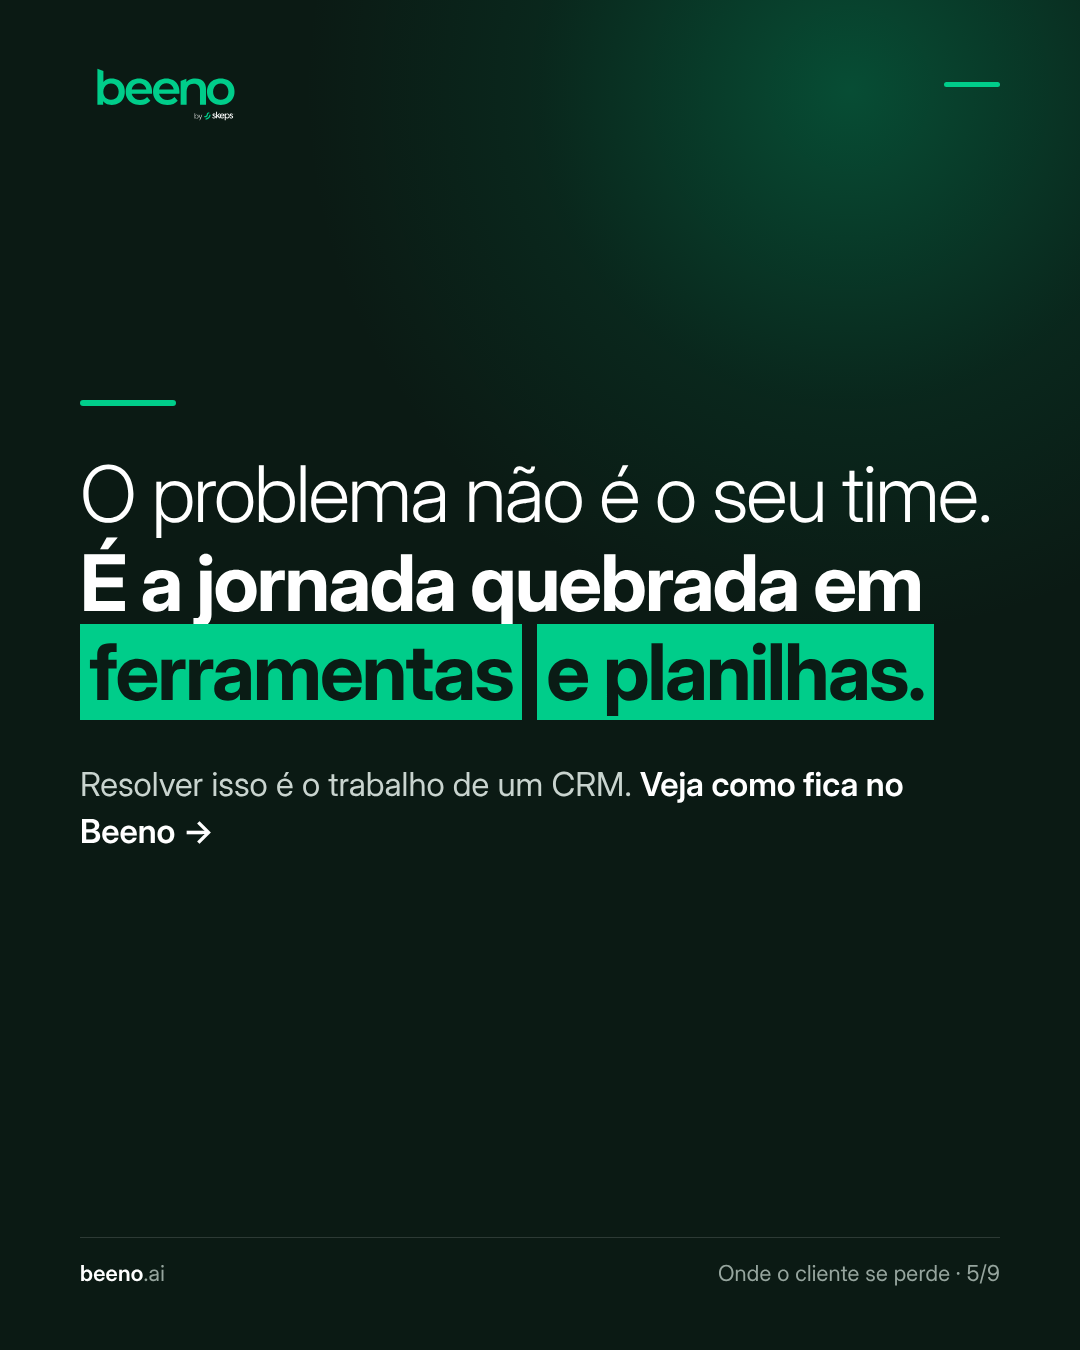
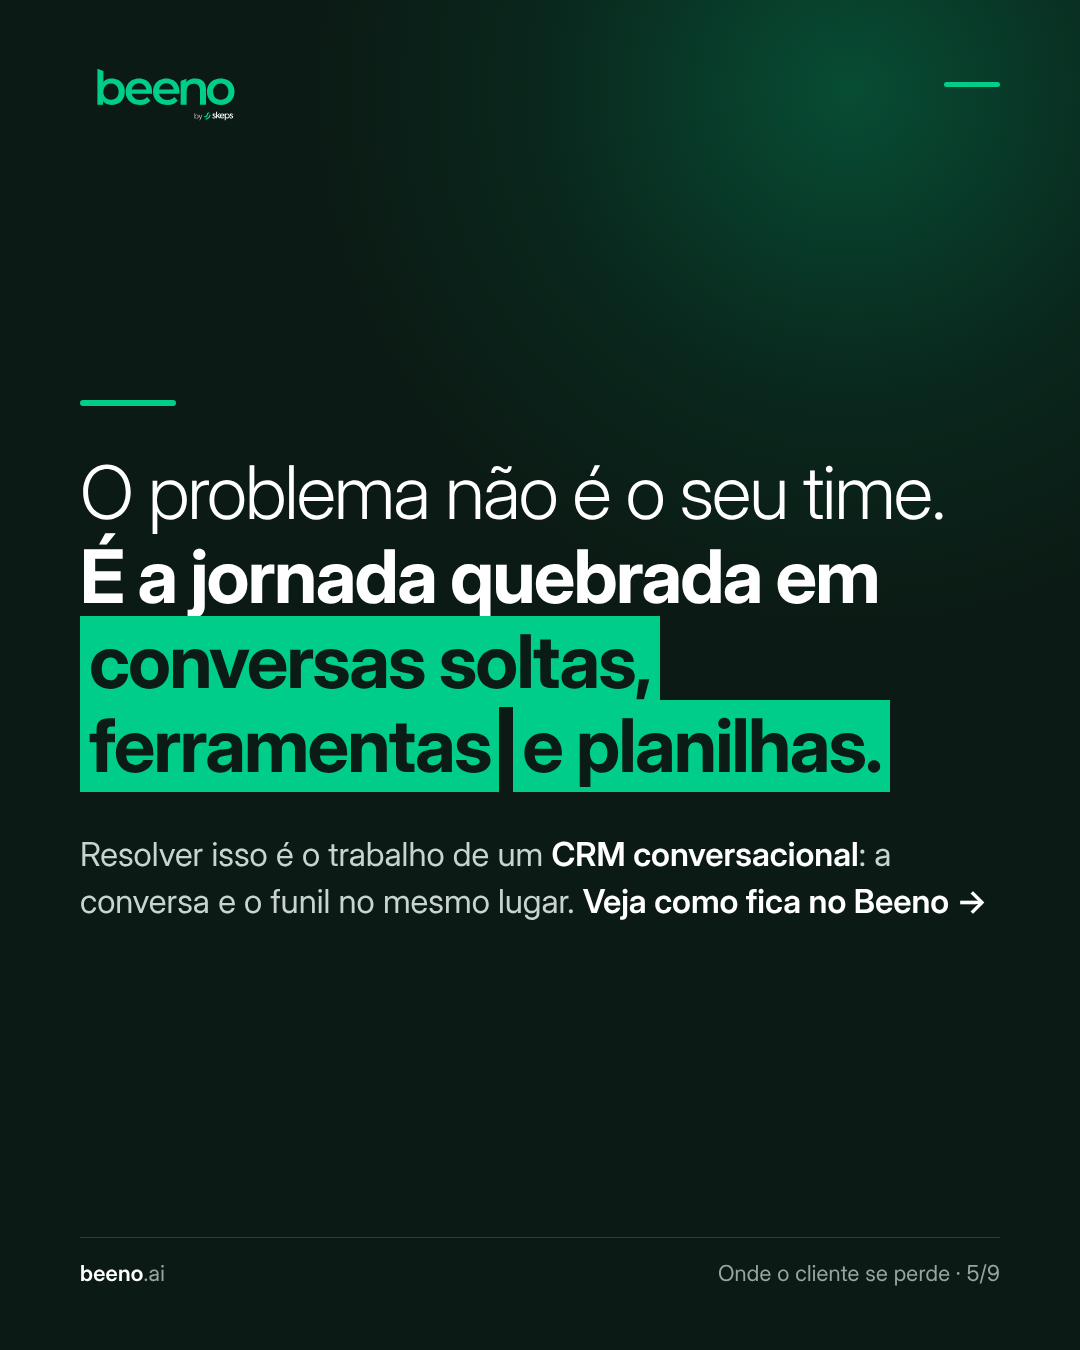
Carrossel 03: WhatsApp na problemática e posicionamento de CRM conversacional
Claude-Session: https://claude.ai/code/session_01D7x6hCGJtiUZoBstvS1oRR

Changed region(s): [[0.0611, 0.3422, 0.9167, 0.6844]]

diff --git a/posts/carrossel-03-jornada/carrossel.html b/posts/carrossel-03-jornada/carrossel.html
@@ -184,6 +184,7 @@ body { background: #222; font-family: "ID", sans-serif; color: #fff; -webkit-fon
   <symbol id="i-alert" viewBox="0 0 24 24"><g fill="none" stroke="currentColor" stroke-width="2.2" stroke-linecap="round" stroke-linejoin="round"><path d="M10.3 3.9 1.8 18a2 2 0 0 0 1.7 3h17a2 2 0 0 0 1.7-3L13.7 3.9a2 2 0 0 0-3.4 0z"/><path d="M12 9v4M12 17h.01"/></g></symbol>
   <symbol id="i-q" viewBox="0 0 24 24"><g fill="none" stroke="currentColor" stroke-width="2.2" stroke-linecap="round"><circle cx="12" cy="12" r="9"/><path d="M9.5 9.5a2.5 2.5 0 1 1 3.5 2.3c-.6.3-1 .9-1 1.5V14M12 17h.01"/></g></symbol>
   <symbol id="i-sheet" viewBox="0 0 24 24"><g fill="none" stroke="currentColor" stroke-width="2"><rect x="3" y="3" width="18" height="18" rx="2"/><path d="M3 9h18M3 15h18M9 3v18"/></g></symbol>
+  <symbol id="i-chat" viewBox="0 0 24 24"><path fill="none" stroke="currentColor" stroke-width="2" stroke-linejoin="round" d="M20 11.5a8 8 0 0 1-11.8 7L4 20l1.4-4A8 8 0 1 1 20 11.5z"/></symbol>
   <symbol id="i-chart" viewBox="0 0 24 24"><g fill="none" stroke="currentColor" stroke-width="2" stroke-linecap="round"><path d="M4 20V10M10 20V4M16 20v-7M22 20H2"/></g></symbol>
 </defs></svg>
 
@@ -202,6 +203,8 @@ body { background: #222; font-family: "ID", sans-serif; color: #fff; -webkit-fon
 .cold .row .sp { flex: 1; }
 .cold .muted { color: #8FA39A; font-size: 20px; }
 .redchip { font-size: 18px; font-weight: 600; padding: 6px 14px; border-radius: 999px; background: rgba(255,101,104,.15); color: #FF8A8C; white-space: nowrap; }
+.wachip { font-size: 18px; font-weight: 600; padding: 6px 14px; border-radius: 999px; background: rgba(37,211,102,.14); color: #6EE7A0; white-space: nowrap; }
+.msg { font-style: italic; color: #C9D4CF; }
 .greychip { font-size: 18px; font-weight: 600; padding: 6px 14px; border-radius: 999px; background: rgba(255,255,255,.08); color: #B8C4BF; white-space: nowrap; }
 /* janela no visual real do Beeno */
 .bw { position: absolute; background: #FAFAFA; border-radius: 22px; overflow: hidden; color: #1F2430; font-family: "ID";
@@ -251,12 +254,12 @@ body { background: #222; font-family: "ID", sans-serif; color: #fff; -webkit-fon
   <div style="left:80px; top:180px; width:920px;">
     <div class="tagp r" style="margin-bottom:26px"><span class="num">1</span>Ponto de quebra</div>
     <div class="h2">O lead chega.<br><span class="r">E fica sem dono.</span></div>
-    <p class="pb" style="margin-top:26px">Cai no e-mail do marketing, vira linha de planilha, espera alguém repassar. <b>Cada hora parado é interesse esfriando.</b></p>
+    <p class="pb" style="margin-top:26px">Chega pelo WhatsApp, pelo site, pelo e-mail. Vira mensagem não lida ou linha de planilha, esperando alguém repassar. <b>Cada hora parado é interesse esfriando.</b></p>
   </div>
   <div class="cold" style="left:80px; top:640px; width:920px;">
-    <div class="row"><svg class="ico" color="#8FA39A"><use href="#i-sheet"/></svg><span>leads_novembro_v3.xlsx</span><span class="sp"></span><span class="muted">editado por 4 pessoas</span></div>
-    <div class="row"><span>Grupo Atlas · Mariana Costa</span><span class="sp"></span><span class="redchip">sem responsável · há 5h</span></div>
-    <div class="row"><span>Nobre Logística · Rafael Lima</span><span class="sp"></span><span class="redchip">sem responsável · há 1 dia</span></div>
+    <div class="row"><svg class="ico" color="#6EE7A0"><use href="#i-chat"/></svg><span>WhatsApp do comercial</span><span class="sp"></span><span class="muted">14 conversas não lidas</span></div>
+    <div class="row"><span>Mariana Costa: <span class="msg">“Oi! Queria entender os planos”</span></span><span class="sp"></span><span class="redchip">sem resposta · há 5h</span></div>
+    <div class="row"><svg class="ico" color="#8FA39A"><use href="#i-sheet"/></svg><span>leads_site_novembro.xlsx</span><span class="sp"></span><span class="redchip">23 sem responsável</span></div>
     <div class="row"><span>Vértice Saúde · Ana Prado</span><span class="sp"></span><span class="greychip">“quem pega esse?”</span></div>
   </div>
   <div class="foot"><span><b>beeno</b>.ai</span><span>Onde o cliente se perde · 2/9</span></div>
@@ -269,13 +272,13 @@ body { background: #222; font-family: "ID", sans-serif; color: #fff; -webkit-fon
   <div style="left:80px; top:180px; width:920px;">
     <div class="tagp r" style="margin-bottom:26px"><span class="num">2</span>Ponto de quebra</div>
     <div class="h2">O vendedor liga<br><span class="r">sem contexto.</span></div>
-    <p class="pb" style="margin-top:26px">Não sabe qual página o lead viu, que e-mail abriu, o que já falou com o marketing. <b>Começa do zero, e o cliente percebe.</b></p>
+    <p class="pb" style="margin-top:26px">Não sabe o que o cliente já conversou no WhatsApp, qual página viu, que e-mail abriu. <b>Pergunta tudo de novo, e o cliente percebe.</b></p>
   </div>
   <div class="cold" style="left:80px; top:640px; width:920px;">
     <div class="row"><span style="font-weight:600">Mariana Costa · Grupo Atlas</span><span class="sp"></span><span class="greychip">ficha no CRM</span></div>
-    <div class="row"><svg class="ico" color="#FF8A8C"><use href="#i-q"/></svg><span>Página que visitou</span><span class="sp"></span><span class="muted">está na ferramenta de LP</span></div>
-    <div class="row"><svg class="ico" color="#FF8A8C"><use href="#i-q"/></svg><span>E-mails que abriu</span><span class="sp"></span><span class="muted">está no e-mail marketing</span></div>
-    <div class="row"><svg class="ico" color="#FF8A8C"><use href="#i-q"/></svg><span>Última conversa</span><span class="sp"></span><span class="muted">está no celular de alguém</span></div>
+    <div class="row"><svg class="ico" color="#FF8A8C"><use href="#i-q"/></svg><span>Conversas no WhatsApp</span><span class="sp"></span><span class="muted">no celular de outro vendedor</span></div>
+    <div class="row"><svg class="ico" color="#FF8A8C"><use href="#i-q"/></svg><span>Página que visitou</span><span class="sp"></span><span class="muted">na ferramenta de landing page</span></div>
+    <div class="row"><svg class="ico" color="#FF8A8C"><use href="#i-q"/></svg><span>E-mails que abriu</span><span class="sp"></span><span class="muted">no e-mail marketing</span></div>
   </div>
   <div class="foot"><span><b>beeno</b>.ai</span><span>Onde o cliente se perde · 3/9</span></div>
 </section>
@@ -292,7 +295,7 @@ body { background: #222; font-family: "ID", sans-serif; color: #fff; -webkit-fon
   <div class="cold" style="left:80px; top:640px; width:920px;">
     <div class="row"><span>Retorno · Grupo Atlas</span><span class="sp"></span><span class="greychip"><s style="opacity:.6">sex</s> → seg</span></div>
     <div class="row"><span>Proposta · Nobre Logística</span><span class="sp"></span><span class="redchip">sem próximo passo</span></div>
-    <div class="row"><span>Reunião · Vértice Saúde</span><span class="sp"></span><span class="greychip"><s style="opacity:.6">seg</s> → qua</span></div>
+    <div class="row"><span>WhatsApp · Vértice Saúde: <span class="msg">“Conseguem me mandar a proposta?”</span></span><span class="sp"></span><span class="redchip">sem resposta · 2 dias</span></div>
     <div class="row"><svg class="ico" color="#8FA39A"><use href="#i-chart"/></svg><span>Relatório da semana</span><span class="sp"></span><span class="muted">montado à mão, sexta à noite</span></div>
   </div>
   <div class="foot"><span><b>beeno</b>.ai</span><span>Onde o cliente se perde · 4/9</span></div>
@@ -304,8 +307,8 @@ body { background: #222; font-family: "ID", sans-serif; color: #fff; -webkit-fon
   <div class="dash"></div>
   <div style="left:80px; top:400px; width:920px;">
     <div style="width:96px; height:6px; background:var(--green); border-radius:3px; margin-bottom:44px"></div>
-    <div class="h1" style="font-size:78px; line-height:1.14"><span class="light">O problema não é o seu time.</span><br>É a jornada quebrada em <span class="hl">ferramentas</span> <span class="hl">e planilhas.</span></div>
-    <p class="pb" style="margin-top:44px">Resolver isso é o trabalho de um CRM. <b>Veja como fica no Beeno →</b></p>
+    <div class="h1" style="font-size:74px; line-height:1.14"><span class="light">O problema não é o seu time.</span><br>É a jornada quebrada em <span class="hl">conversas soltas,</span> <span class="hl">ferramentas</span> <span class="hl">e planilhas.</span></div>
+    <p class="pb" style="margin-top:44px">Resolver isso é o trabalho de um <b>CRM conversacional</b>: a conversa e o funil no mesmo lugar. <b>Veja como fica no Beeno →</b></p>
   </div>
   <div class="foot"><span><b>beeno</b>.ai</span><span>Onde o cliente se perde · 5/9</span></div>
 </section>
@@ -317,13 +320,13 @@ body { background: #222; font-family: "ID", sans-serif; color: #fff; -webkit-fon
   <div style="left:80px; top:180px; width:920px;">
     <div class="solves" style="margin-bottom:24px"><span class="num g">1</span>Resolve o ponto 1 · <s>lead sem dono</s></div>
     <div class="h2">Lead chegou:<br><span class="g">dono e tarefa em 1 minuto.</span></div>
-    <p class="pb" style="margin-top:22px">A landing page entra direto no funil e a <b>roleta comercial</b> distribui entre o time.</p>
+    <p class="pb" style="margin-top:22px">Chegou pelo WhatsApp ou pela landing page, entra direto no funil, e a <b>roleta comercial</b> distribui entre o time.</p>
   </div>
   <div class="bw" style="left:80px; top:590px; width:920px;">
     <div class="top"><span style="color:#00CD8A;font-weight:700">b</span><span>Automações</span><span class="sp"></span><span>Comercial ▾</span></div>
     <div class="canvas">
       <div style="font-size:19px;margin:0 0 14px 4px">[Beeno] Etapa Lead · Roleta comercial</div>
-      <div class="nd lit"><div class="hd"><span>$ Negócio · gatilho</span><span>✓</span></div><div class="bd">Entrou na etapa <b>Lead</b> (via landing page)</div></div>
+      <div class="nd lit"><div class="hd"><span>$ Negócio · gatilho</span><span>✓</span></div><div class="bd">Entrou na etapa <b>Lead</b> (WhatsApp ou landing page)</div></div>
       <div class="wr"></div>
       <div class="nd lit"><div class="hd"><span>Revezar proprietário</span><span>✓</span></div><div class="bd">Equipe <b>Comercial</b> → <b>Ana Lima</b></div></div>
       <div class="wr"></div>
@@ -341,14 +344,15 @@ body { background: #222; font-family: "ID", sans-serif; color: #fff; -webkit-fon
   <div class="dash"></div>
   <div style="left:80px; top:180px; width:920px;">
     <div class="solves" style="margin-bottom:24px"><span class="num g">2</span>Resolve o ponto 2 · <s>vendedor sem contexto</s></div>
-    <div class="h2">Uma ficha,<br><span class="g">a história inteira.</span></div>
-    <p class="pb" style="margin-top:22px">Página, e-mail, ligação e etapa do funil no mesmo histórico. <b>O vendedor já liga sabendo.</b></p>
+    <div class="h2">Uma ficha,<br><span class="g">a conversa inteira.</span></div>
+    <p class="pb" style="margin-top:22px">WhatsApp, página, e-mail e ligação no mesmo histórico. <b>Quem atende já chega sabendo.</b></p>
   </div>
   <div class="bw" style="left:80px; top:620px; width:920px;">
     <div class="top"><span style="color:#00CD8A;font-weight:700">b</span><span>Contatos</span><span class="sp"></span><span>Comercial ▾</span></div>
     <div style="padding:20px 30px 10px; background:#fff">
       <div style="display:flex;align-items:center;gap:18px;padding-bottom:14px;border-bottom:1px solid #EEF0F2"><span style="width:62px;height:62px;border-radius:50%;background:#7C5CFC;color:#fff;display:grid;place-items:center;font-weight:700;font-size:22px">MC</span><div><b style="font-size:26px;display:block">Mariana Costa</b><span style="font-size:18px;color:#6B7C74">Diretora comercial · Grupo Atlas</span></div><span class="evx" style="margin-left:auto;border:0;padding:0"><span class="mod">Proposta · R$ 48.000</span></span></div>
       <div class="evx"><span class="dot" style="background:#E8F0FE;color:#2563EB"><svg class="ico"><use href="#i-globe"/></svg></span><div><b>Landing page “Demonstração”</b><span>formulário enviado · seg 09:02</span></div><span class="mod">Landing page</span></div>
+      <div class="evx"><span class="dot" style="background:#E3F8EC;color:#128C4A"><svg class="ico"><use href="#i-chat"/></svg></span><div><b>“Oi! Queria entender os planos”</b><span>conversa no WhatsApp · seg 09:10</span></div><span class="mod" style="background:#E3F8EC;color:#128C4A">WhatsApp</span></div>
       <div class="evx"><span class="dot" style="background:#FEF3DC;color:#B7791F"><svg class="ico"><use href="#i-mail"/></svg></span><div><b>Abriu “Como funciona” 3 vezes</b><span>clicou em planos · ter 18:40</span></div><span class="mod">E-mail marketing</span></div>
       <div class="evx"><span class="dot" style="background:#E6FAF3;color:#00A973"><svg class="ico"><use href="#i-phone"/></svg></span><div><b>Ligação de 6 min · gravada</b><span>Ana Lima · qua 10:02</span></div><span class="mod">Ligações</span></div>
     </div>
@@ -363,7 +367,7 @@ body { background: #222; font-family: "ID", sans-serif; color: #fff; -webkit-fon
   <div style="left:80px; top:180px; width:920px;">
     <div class="solves" style="margin-bottom:24px"><span class="num g">3</span>Resolve o ponto 3 · <s>follow-up na memória</s></div>
     <div class="h2">Próximo passo automático.<br><span class="g">Gestão em tempo real.</span></div>
-    <p class="pb" style="margin-top:22px">Cadências de e-mail e ligação puxam o follow-up. <b>O gestor vê o funil sem pedir relatório.</b></p>
+    <p class="pb" style="margin-top:22px">Cadências puxam o follow-up, nenhuma conversa fica sem dono. <b>O gestor vê o funil sem pedir relatório.</b></p>
   </div>
   <div class="bw" style="left:80px; top:700px; width:560px;">
     <div class="top"><span style="color:#00CD8A;font-weight:700">b</span><span>Cadência</span></div>
@@ -390,7 +394,7 @@ body { background: #222; font-family: "ID", sans-serif; color: #fff; -webkit-fon
   <svg class="bmark" style="right:-110px; bottom:-60px; width:620px; height:790px"><use href="#b"/></svg>
   <div style="left:80px; top:360px; width:920px;">
     <div class="h1" style="font-size:80px"><span class="light">Do primeiro clique ao contrato assinado,</span><br><span class="hl">sem perder o cliente</span><br><span class="hl">no caminho.</span></div>
-    <p class="body" style="margin-top:40px; width:840px">Funil, e-mail marketing, landing pages, cadências e ligações <b>na mesma plataforma.</b></p>
+    <p class="body" style="margin-top:40px; width:860px"><b>Beeno, o CRM conversacional.</b> WhatsApp, funil, e-mail marketing, landing pages, cadências e ligações na mesma plataforma.</p>
   </div>
   <div style="left:80px; top:1010px;">
     <span style="display:inline-flex; align-items:center; gap:16px; background:var(--green); color:var(--ink); font-weight:700; font-size:30px; border-radius:18px; padding:24px 34px;">

diff --git a/posts/carrossel-03-jornada/legenda.md b/posts/carrossel-03-jornada/legenda.md
@@ -4,14 +4,14 @@ Legenda sugerida:
 
 > Entre o primeiro clique e o contrato assinado, o cliente passa por muitas mãos e, em geral, se perde em três pontos:
 >
-> 1. O lead chega e fica sem dono.
-> 2. O vendedor liga sem contexto.
-> 3. O follow-up depende da memória de alguém.
+> 1. O lead chega pelo WhatsApp, pelo site ou pelo e-mail e fica sem dono.
+> 2. O vendedor atende sem saber o que já foi conversado.
+> 3. O follow-up depende da memória de alguém, e a mensagem fica sem resposta.
 >
-> O problema não é o time. É a jornada quebrada em ferramentas e planilhas.
+> O problema não é o time. É a jornada quebrada em conversas soltas, ferramentas e planilhas.
 >
-> No Beeno, o lead já entra no funil com dono e tarefa, o histórico do cliente fica em uma ficha só e as cadências puxam o próximo passo, com o gestor acompanhando tudo em tempo real.
+> O Beeno é um CRM conversacional: o WhatsApp e o funil no mesmo lugar. O lead já entra com dono e tarefa, a conversa fica no histórico do cliente e as cadências puxam o próximo passo, com o gestor acompanhando tudo em tempo real.
 >
 > Agende uma demonstração pelo link na bio.
 >
-> #CRM #Vendas #GestaoComercial #MarketingDigital #InsideSales
+> #CRM #CRMConversacional #WhatsAppParaEmpresas #Vendas #GestaoComercial
